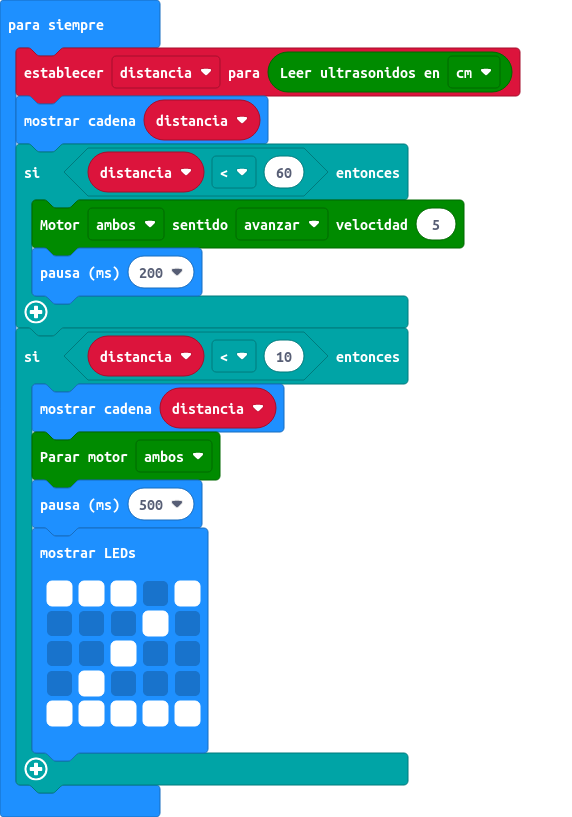
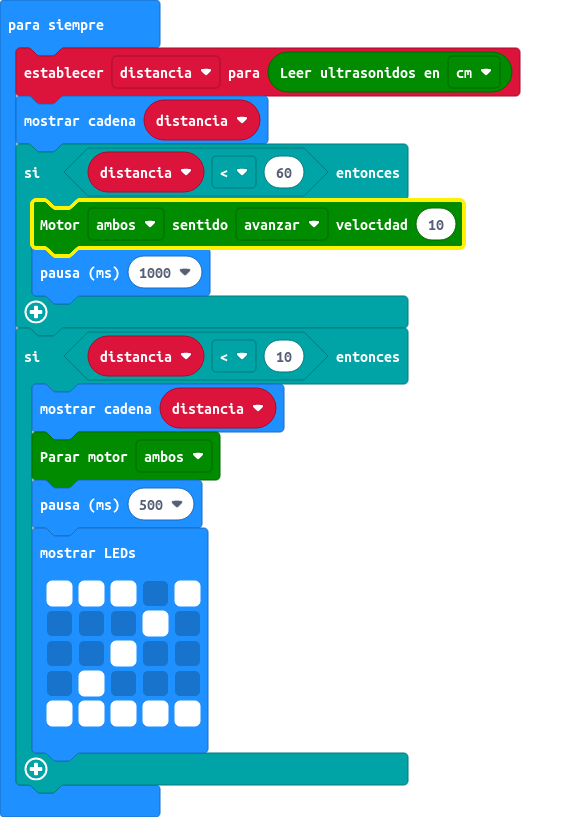
Actualizar main.blocks, main.ts

Changed region(s): [[0.1486, 0.2448, 0.8322, 0.3672], [0.0297, 0.2448, 0.1486, 0.306], [0.0892, 0.306, 0.1189, 0.3366]]

diff --git a/main.ts b/main.ts
@@ -3,8 +3,8 @@ basic.forever(function () {
     distancia = maqueen.Ultrasonic(PingUnit.Centimeters)
     basic.showString("" + (distancia))
     if (distancia < 60) {
-        maqueen.motorRun(maqueen.Motors.All, maqueen.Dir.CW, 5)
-        basic.pause(200)
+        maqueen.motorRun(maqueen.Motors.All, maqueen.Dir.CW, 10)
+        basic.pause(1000)
     }
     if (distancia < 10) {
         basic.showString("" + (distancia))
